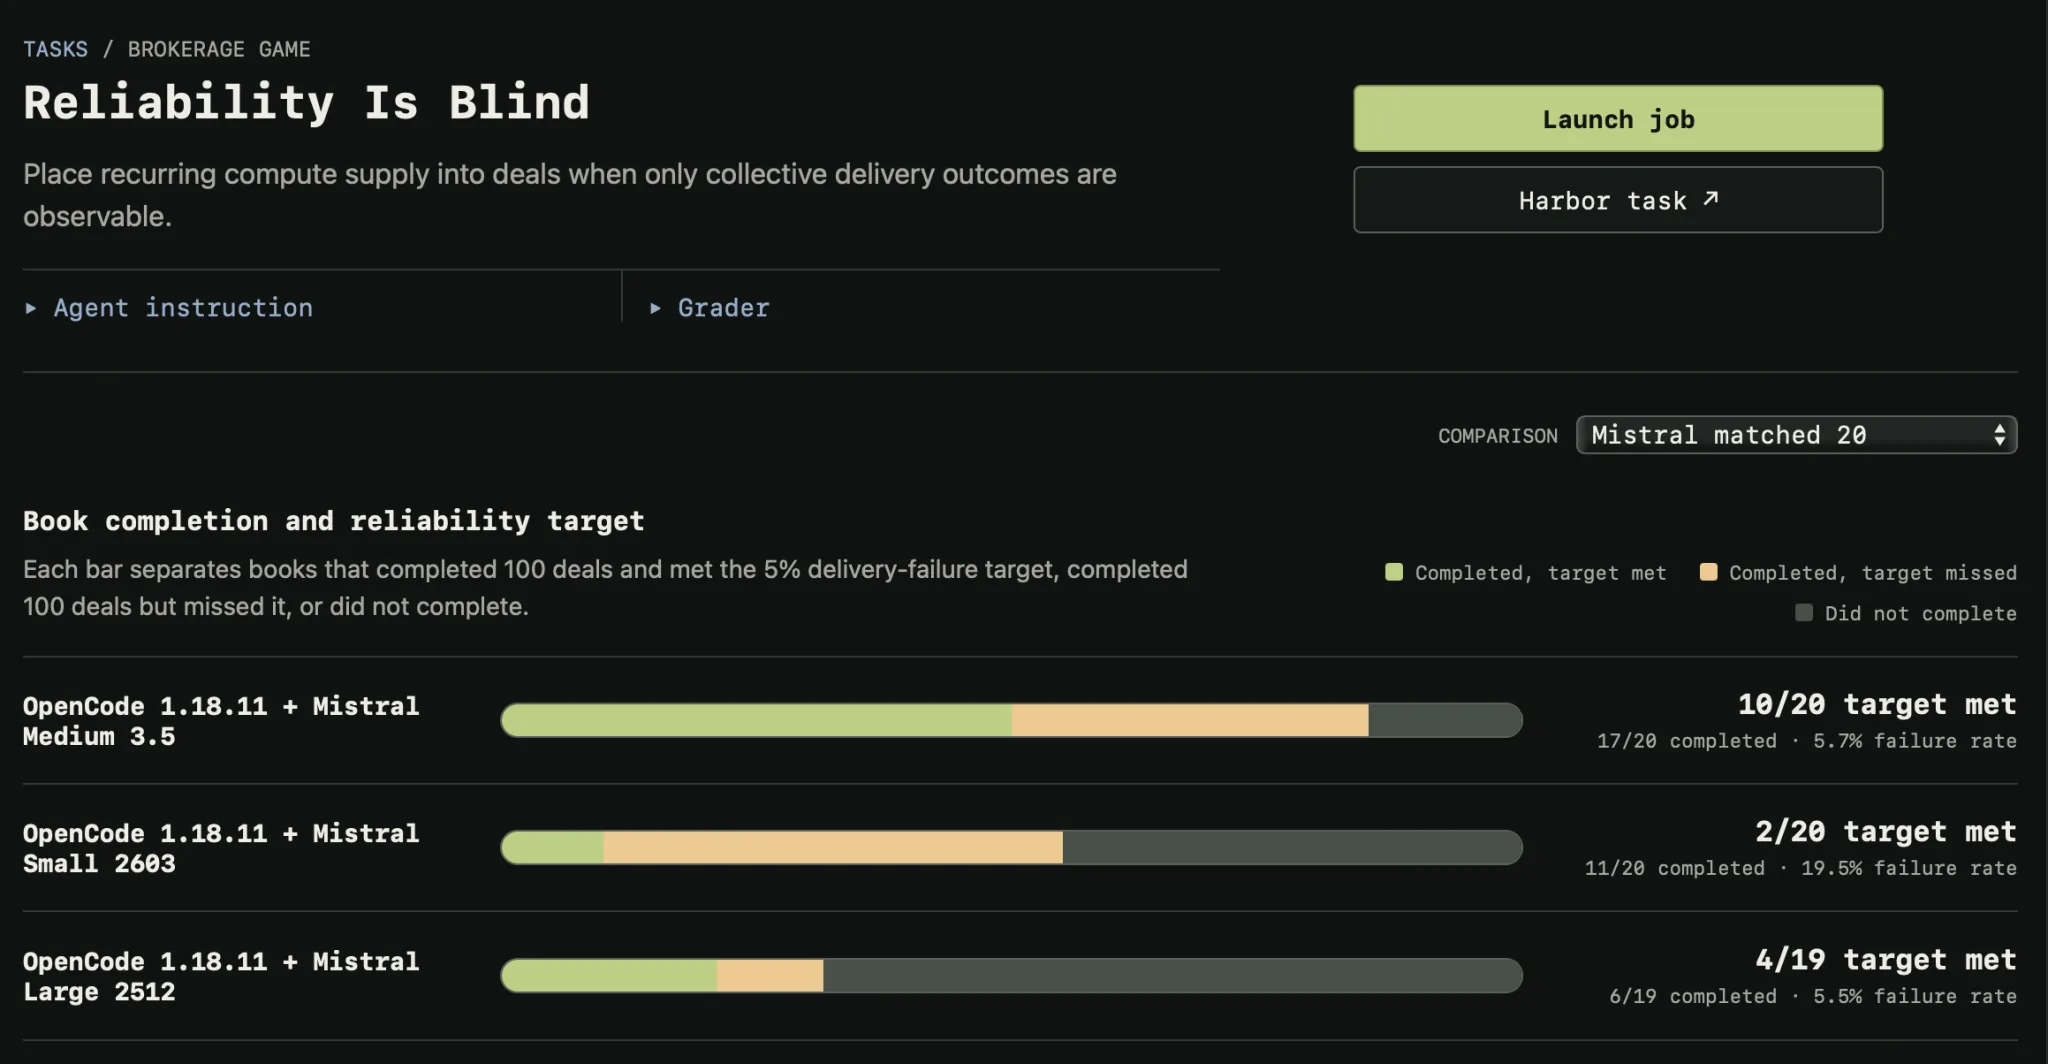
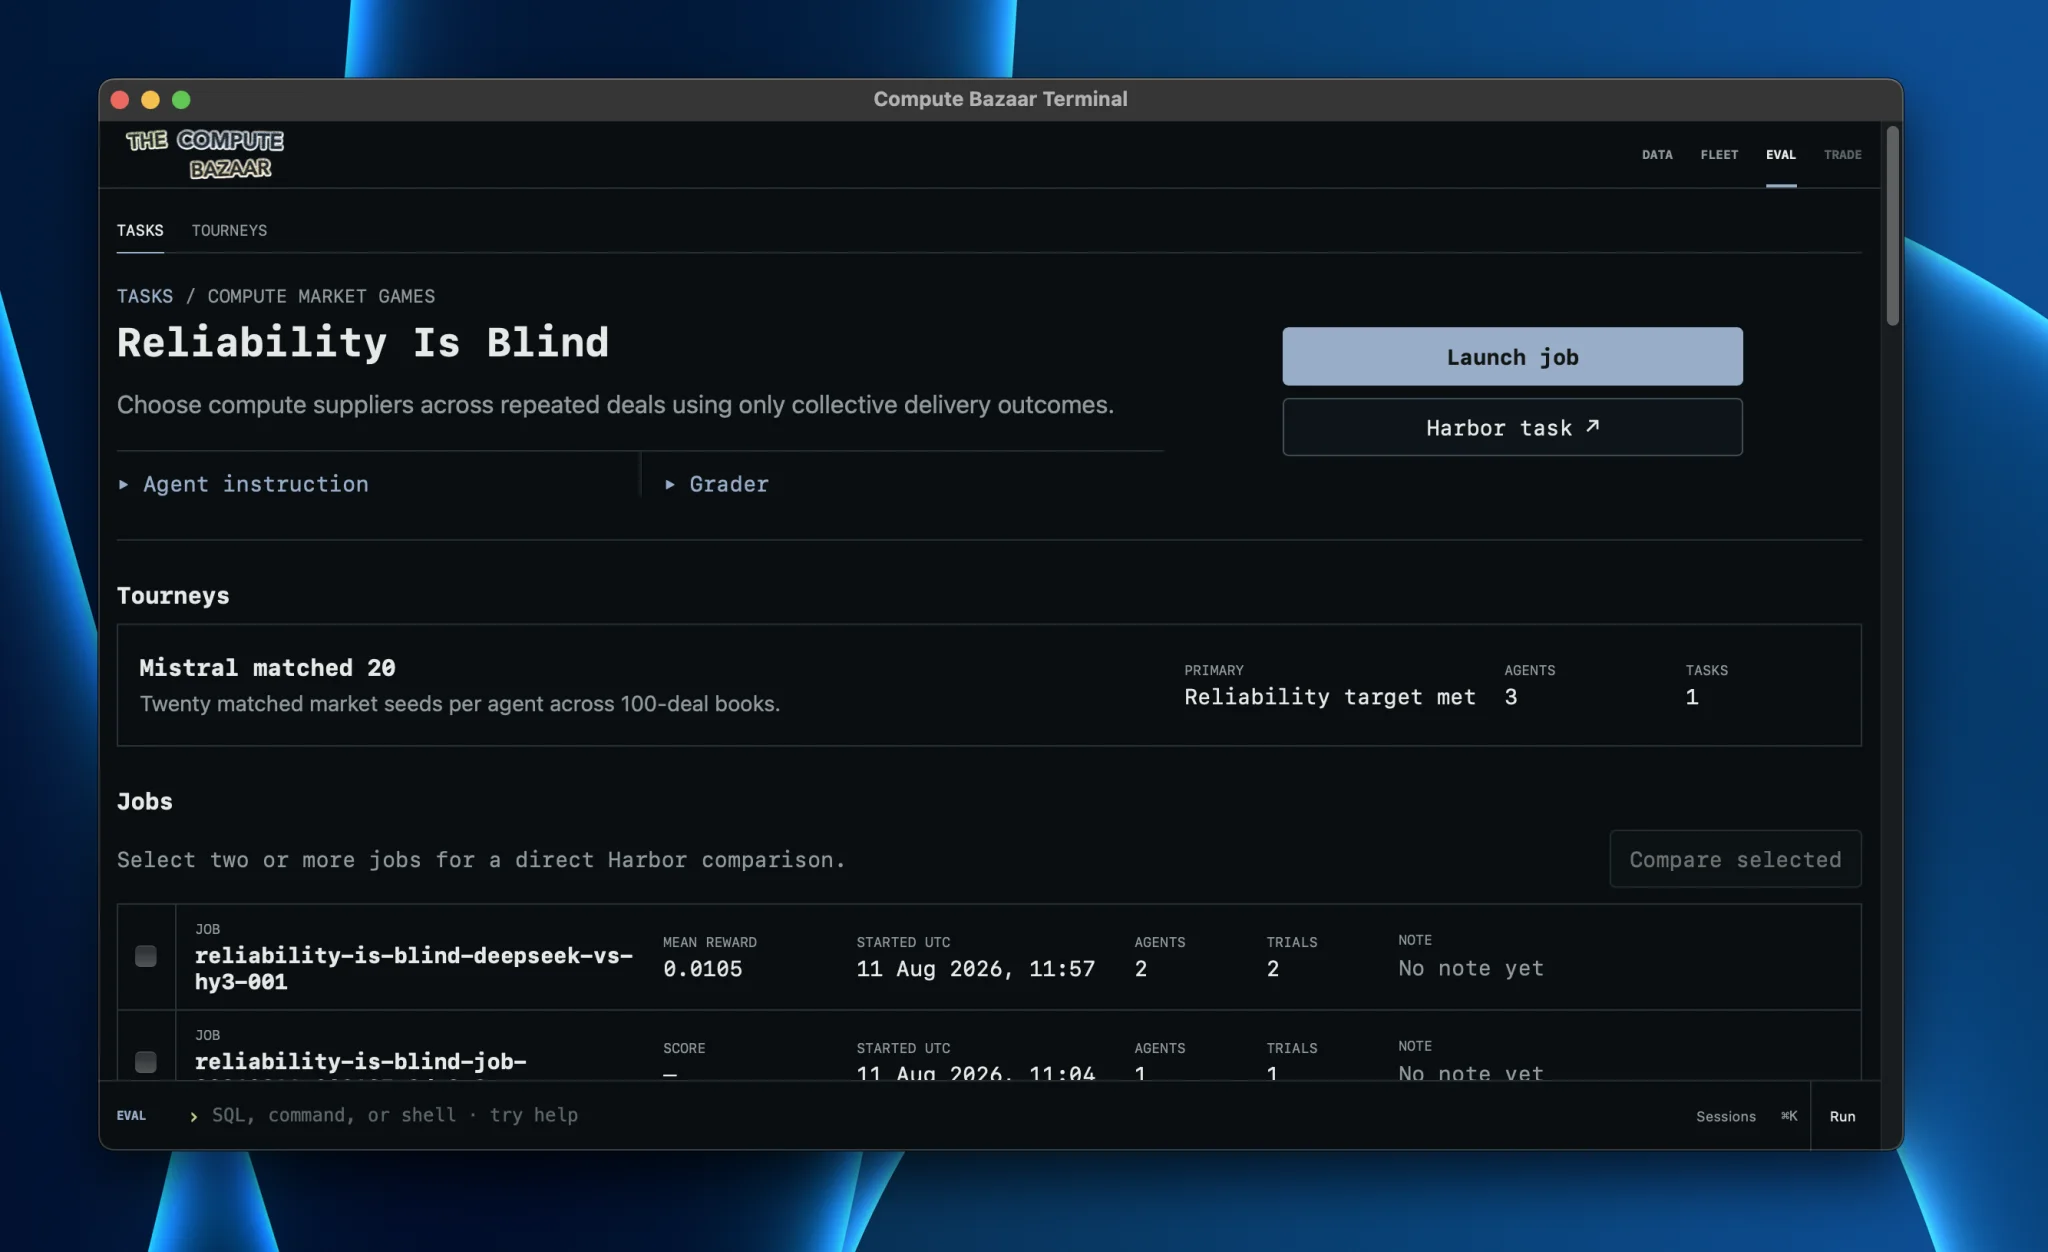
Refresh Eval presentation

diff --git a/compute-bazaar-bench/viewer/app.py b/compute-bazaar-bench/viewer/app.py
@@ -201,8 +201,8 @@ h2 { margin: 0; font-size: 15px; letter-spacing: 0; }
   cursor: pointer;
 }
 .button:hover { border-color: var(--text); background: var(--panel-hover); }
-.button.primary { border-color: #789248; background: var(--green); color: #111513; font-weight: 700; }
-.button.primary:hover { background: #c5db91; }
+.button.primary { border-color: var(--blue); background: var(--blue); color: #111513; font-weight: 700; }
+.button.primary:hover { border-color: var(--blue); background: var(--blue); filter: brightness(1.08); }
 dialog { width: min(620px, calc(100% - 24px)); border: 1px solid var(--line-strong); border-radius: 5px; background: var(--bg); color: var(--text); padding: 0; }
 dialog::backdrop { background: rgb(0 0 0 / 72%); }
 .dialog-head { display: flex; align-items: center; justify-content: space-between; gap: 20px; padding: 18px; border-bottom: 1px solid var(--line); }
@@ -228,7 +228,7 @@ dialog::backdrop { background: rgb(0 0 0 / 72%); }
 .comparison-page-head { display: grid; grid-template-columns: minmax(0, 1fr) minmax(280px, 420px); gap: 36px; padding-bottom: 26px; border-bottom: 1px solid var(--line); }
 .comparison-page-head h1 { font-size: 28px; }
 .comparison-description { max-width: 800px; margin: 12px 0 0; color: var(--muted); font-family: ui-sans-serif, system-ui, sans-serif; font-size: 16px; line-height: 1.55; }
-.metric-definition { display: grid; align-content: start; gap: 5px; padding: 14px 0 14px 18px; border-left: 2px solid var(--green); }
+.metric-definition { display: grid; align-content: start; gap: 5px; padding: 14px 0 14px 18px; border-left: 2px solid var(--blue); }
 .metric-definition span { color: var(--muted); font-size: 10px; text-transform: uppercase; }
 .metric-definition strong { font-size: 16px; }
 .metric-definition p { margin: 0; color: var(--muted); font-family: ui-sans-serif, system-ui, sans-serif; line-height: 1.45; }
@@ -270,7 +270,7 @@ dialog::backdrop { background: rgb(0 0 0 / 72%); }
 .job-select-row { display: grid; grid-template-columns: 38px minmax(0, 1fr); border-bottom: 1px solid var(--line); }
 .job-select-row:last-child { border-bottom: 0; }
 .job-select-control { display: flex; align-items: center; justify-content: center; border-right: 1px solid var(--line); background: var(--panel-deep); cursor: pointer; }
-.job-select-control input { width: 15px; height: 15px; padding: 0; accent-color: var(--green); }
+.job-select-control input { width: 15px; height: 15px; padding: 0; accent-color: var(--blue); }
 .job-select-row .eval-row { border-bottom: 0; }
 .comparison-empty { color: var(--muted); }
 .section { margin-top: 26px; }
@@ -343,7 +343,7 @@ pre { overflow: auto; background: var(--panel-deep); border: 1px solid var(--lin
 .trace-block-label { margin-bottom: 5px; color: var(--muted); font-size: 10px; text-transform: uppercase; }
 .trace-body pre { max-height: 460px; margin: 0; white-space: pre-wrap; overflow-wrap: anywhere; }
 .trace-tool + .trace-tool { margin-top: 8px; }
-.trace-tool-name { display: inline-block; margin-bottom: 5px; color: var(--green); }
+.trace-tool-name { display: inline-block; margin-bottom: 5px; color: var(--blue); }
 .back { display: inline-block; margin-bottom: 20px; color: var(--muted); }
 @media (max-width: 980px) {
   .eval-row { grid-template-columns: minmax(220px, 2fr) repeat(3, minmax(100px, 1fr)); }
